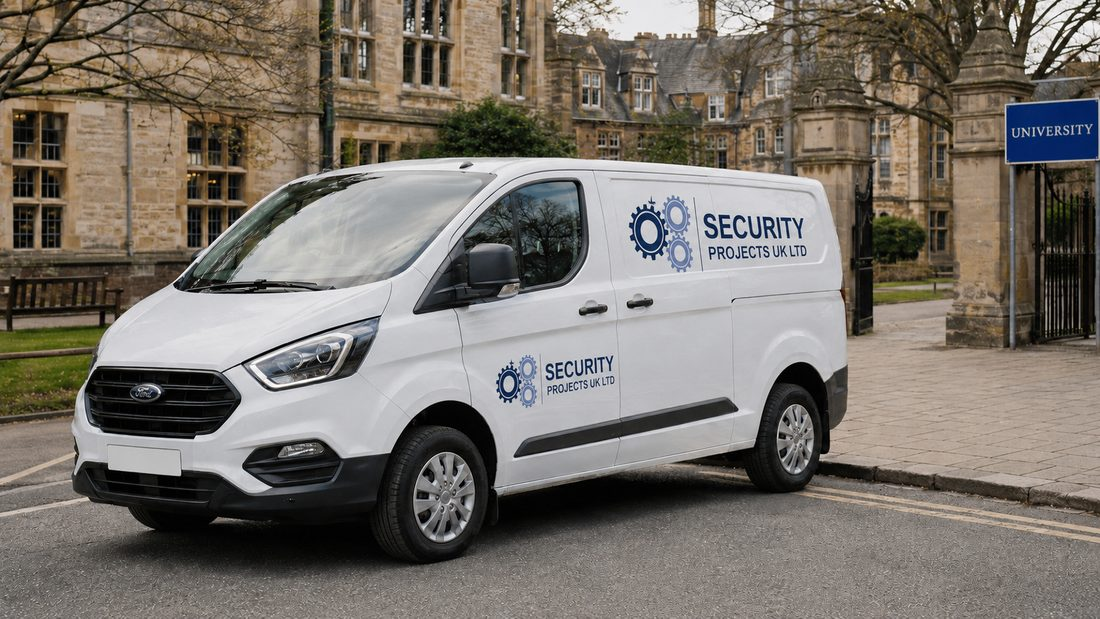
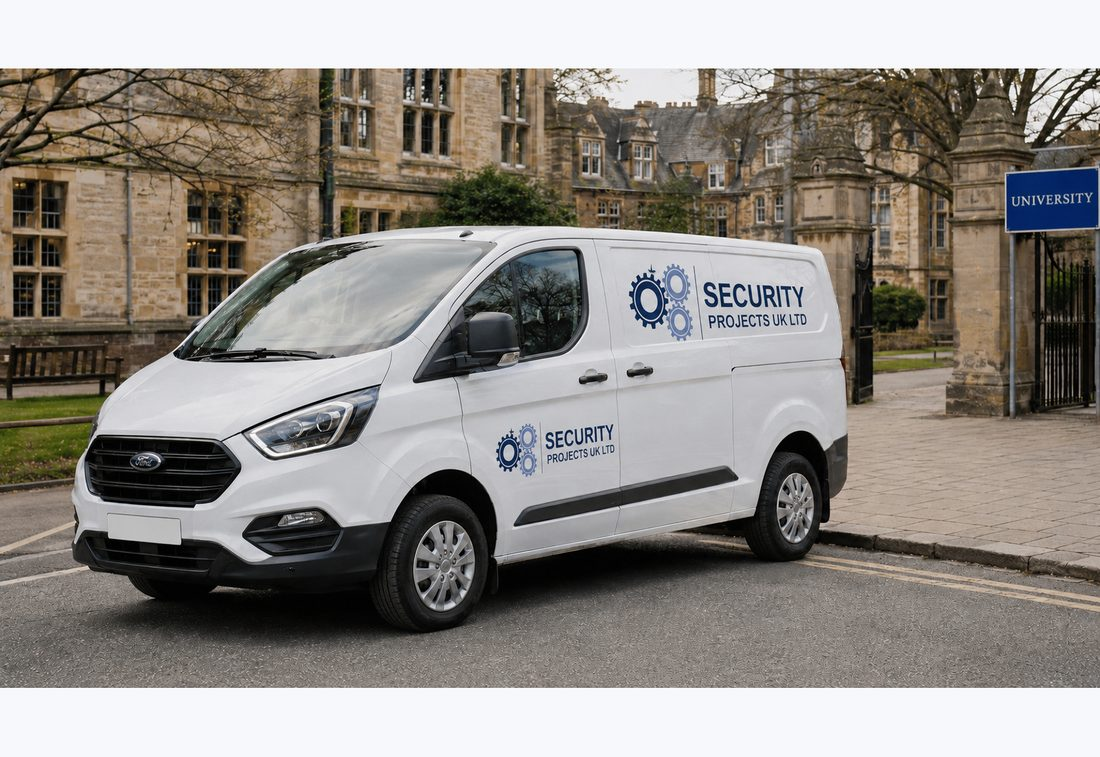
Mobile patrol image: re-render at tile aspect ratio so whole van fits
The van image was 1.78:1 but the tile media is 16:11 (1.45:1), so
object-fit: cover was clipping the sides. Now the source is padded
top + bottom with the same #f6f8fb soft-grey used for the tile media
background, then resized to 1100×757 — exactly 16:11. The padding
visually merges with the tile and the whole van stays visible at
every breakpoint.

Cache-busted via ?v=2 on all three references so existing visitors
pull the new image immediately rather than the cached camera.

diff --git a/services.html b/services.html
@@ -110,7 +110,7 @@
       </a>
 
       <a class="tile" href="services/mobile-patrols.html">
-        <div class="tile__media"><img src="/assets/images/mobile-patrol.jpg" alt="Branded Security Projects UK mobile patrol van" loading="lazy"></div>
+        <div class="tile__media"><img src="/assets/images/mobile-patrol.jpg?v=2" alt="Branded Security Projects UK mobile patrol van" loading="lazy"></div>
         <div class="tile__body">
           <span class="tile__eyebrow">Mobile Patrol</span>
           <h3 class="tile__title">GPS-tracked patrol response</h3>

diff --git a/services/mobile-patrols.html b/services/mobile-patrols.html
@@ -112,7 +112,7 @@
         <a href="../contact.html" class="btn btn--primary">Quote my patrol route <span class="arrow">→</span></a>
       </div>
       <div class="feature-row__media">
-        <img src="/assets/images/mobile-patrol.jpg" alt="Security vehicle patrolling an industrial estate at night" loading="lazy">
+        <img src="/assets/images/mobile-patrol.jpg?v=2" alt="Security vehicle patrolling an industrial estate at night" loading="lazy">
       </div>
     </div>
   </div>

diff --git a/index.html b/index.html
@@ -367,7 +367,7 @@
       </a>
 
       <a class="tile" href="services/mobile-patrols.html">
-        <div class="tile__media"><img src="/assets/images/mobile-patrol.jpg" alt="" loading="lazy"></div>
+        <div class="tile__media"><img src="/assets/images/mobile-patrol.jpg?v=2" alt="" loading="lazy"></div>
         <div class="tile__body">
           <span class="tile__eyebrow">Mobile Patrol</span>
           <h3 class="tile__title">GPS-tracked patrols, control-room monitored</h3>
